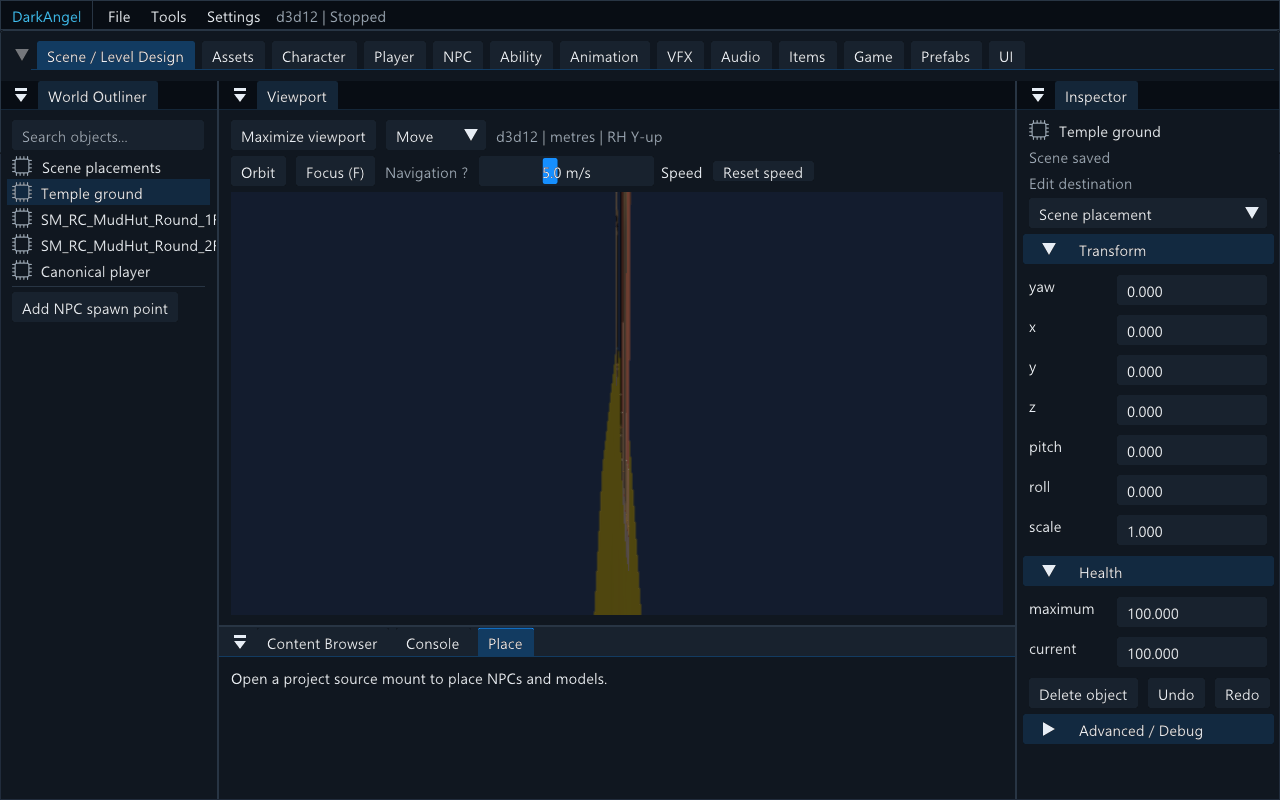
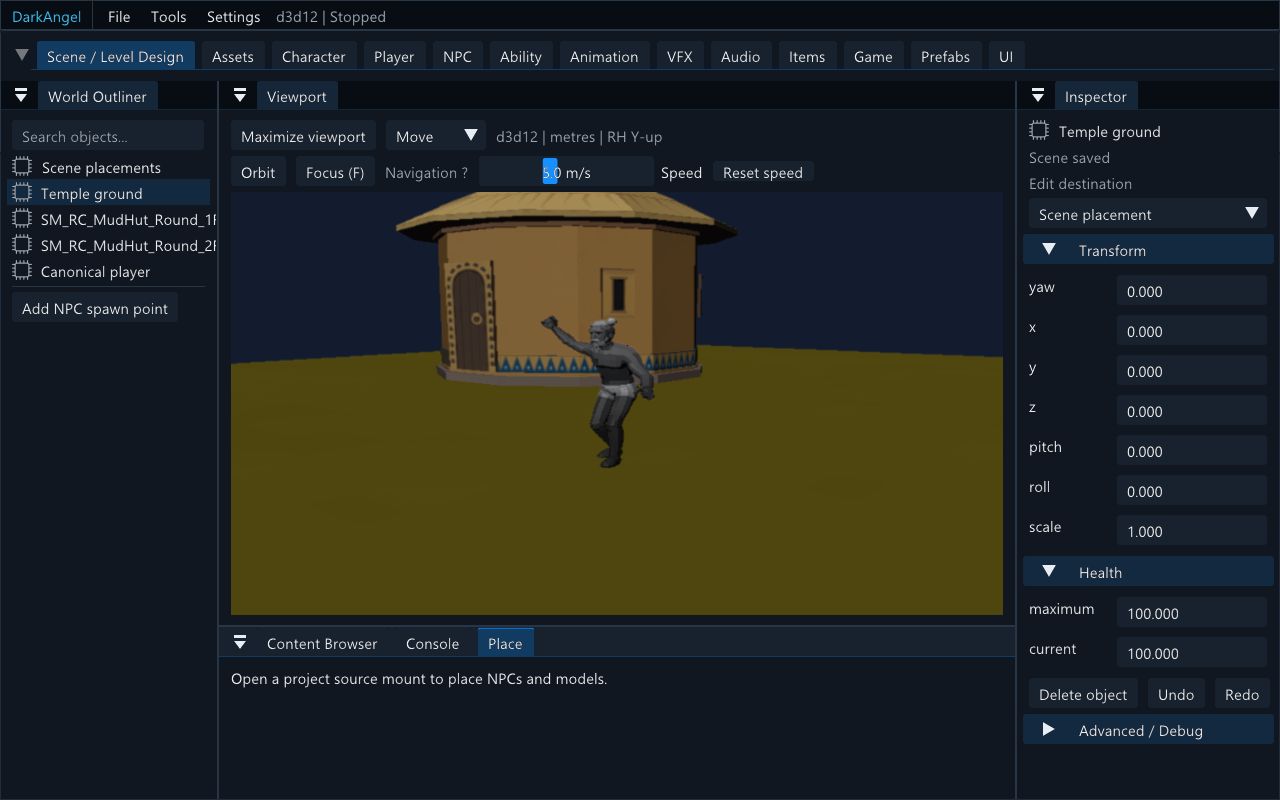
Qualify Royal renderer camera capture

Changed region(s): [[0.1562, 0.2188, 0.7812, 0.7812]]

diff --git a/apps/editor/render/scene_viewport.cpp b/apps/editor/render/scene_viewport.cpp
@@ -247,7 +247,7 @@ void SceneViewport::render(double elapsed_seconds) {
         camera_fov = XM_PIDIV4;
     }
     auto projection = XMMatrixPerspectiveFovRH(camera_fov, viewport.Width / viewport.Height, gpu.radius * .01f, gpu.radius * 40);
-    if (shell.workspace==darkangel::editor_app::Workspace::Scene&&!editor.preview.active()) {
+    if (shell.workspace==darkangel::editor_app::Workspace::Scene&&!editor.preview.active()&&(!args.hidden||args.exercise_scene_camera)) {
         // Use the exact matrices used by this frame's UI picking/drop rays, also during viewport resize.
         view=XMLoadFloat4x4(&shell.scene_view);
         projection=XMLoadFloat4x4(&shell.scene_projection);

diff --git a/docs/implementation/CONTINUE.md b/docs/implementation/CONTINUE.md
@@ -576,3 +576,5 @@ Native character scene coordinator checkpoint: CharacterSceneSession composes th
 
 Royal native viewport movement checkpoint: scripts/open_royal_scene.ps1 now supplies nine frozen cooked clip AssetIDs to the native editor preset. Press Play, click the viewport, use WASD; Shift walks, Q/E turns and Esc releases input. UI routes keys only while the viewport owns focus and text input is inactive; Stop returns to unchanged authoring. Per-actor tick poses from CharacterSceneSession drive GPU skinning and a follow camera. Native pause/Step, model reload (controlled restart after successful validation), failed candidates, source transactions/undo/redo/save/open and the original no-character editor path are retained.120 scripted fixed ticks pass on D3D12/Vulkan: foot=(0,0.500002,12.625), graph phase0.610974, pending0. Rest/deformed GPU-versus-CPU comparisons remain exact. Reproduce python scripts/verify_character_editor.py and python scripts/verify_royal_renderer.py. The initial preview derives rotated solid box proxies from cooked model bounds/current native document transforms; hut doors are blocked. This is not precise hut mesh collision acceptance. The real attack is still a pose diagnostic; Action Composer/ability costs/cooldowns/effects/tags/damage/prediction/late-join and runtime health UI remain required. Standing gait only; posture/jump animation, precise scene collision, graph asset authoring/markers/transitions/additive/action slots and broader M4 clock/fault/streaming gates remain open. Existing independent GNS receipts unchanged; native suite46/46 at dd6a0a0, plus these scoped GUI checks. M4/M5 In progress, M3 live EOS blocked, M6 not started.
 R7 continuation checkpoint (16 October 2026, Codex): the first implementation increment is compiled and focused-verified. Read `current/R7_IMPLEMENTATION_OUTLINE.md` and `current/R7_IMPLEMENTATION_REPORT.md`. Built: game-agnostic rendering core with deterministic CPU cluster reference, per-primary-view screen/depth cluster selection and retained occupancy/overflow stats, schema-1 authored light/settings components, Place/Inspector/Lighting UI, toon Standard/Character/Terrain material contracts and editor controls, RGBA16_FLOAT viewport accumulation, registered exposure/tone/bloom/FXAA display pass, saved procedural sky recipe rendering, scene sky color and distance fog, bounded configurable main-light cascades (count/resolution/distance/bias/split distribution), spotlight cone/falloff shading in the shared local-light payload, and the initial pre-FXAA depth/normal/group-ID outline pass with distance fading and persisted controls. Verified: `R7RenderingTests`, `MaterialTests`, CTest `R7.rendering_core` and `R5.materials`, guarded `DarkAngelEditor`, and `scripts/verify_scene_navigation.py --gate place` on D3D12/DXC. Partial only: Royal D3D12/Vulkan execution and GPU/reference parity passed, but the final visible attack-delta assertion failed because the retained camera capture had no qualifying pose change. Next in order: diagnose that visual fixture, qualify/finalize texel-stable cascades and caster alpha policy; then GPU clustered buffers and stats; then cubemap/equirectangular sky assets, the repeatable validation scene and full save/reload/cook/run plus Vulkan qualification. Transparent outline behavior, sky visual qualification and final visual qualification remain open. Do not stage generated `r1-*`/`r2-*` evidence; do not push.
+R7 continuation checkpoint (16 October 2026, Codex): the first implementation increment is compiled and focused-verified. Read `current/R7_IMPLEMENTATION_OUTLINE.md` and `current/R7_IMPLEMENTATION_REPORT.md`. Built: game-agnostic rendering core with deterministic CPU cluster reference, per-primary-view screen/depth cluster selection and retained occupancy/overflow stats, schema-1 authored light/settings components, Place/Inspector/Lighting UI, toon Standard/Character/Terrain material contracts and editor controls, RGBA16_FLOAT viewport accumulation, registered exposure/tone/bloom/FXAA display pass, saved procedural sky recipe rendering, scene sky color and distance fog, bounded configurable main-light cascades, spotlight cone/falloff shading, and the initial pre-FXAA depth/normal/group-ID outline pass with distance fading and persisted controls. Verified: `R7RenderingTests`, `MaterialTests`, focused CTest, guarded `DarkAngelEditor`, D3D12 placement, and `scripts/verify_royal_renderer.py` on D3D12/Vulkan with visible rest/attack captures and exact GPU/reference parity. The hidden renderer now preserves `--camera-close`; R1 scene-camera exercises retain their authored matrices. Next: qualify texel-stable cascades and caster alpha policy; add GPU clustered buffers/stats; add cubemap/equirectangular sky assets; create the repeatable validation scene and full save/reload/cook/run plus Vulkan visual qualification. Do not stage generated `r1-*`/`r2-*` evidence; do not push.
+

diff --git a/docs/implementation/STATUS.md b/docs/implementation/STATUS.md
@@ -419,3 +419,5 @@ Reproduce M0 acquisition with [bootstrap instructions](current/BOOTSTRAP.md), na
 Current R7 implementation checkpoint (16 October 2026, Codex): R7 foundation work is in progress. The existing Diligent scene viewport now has stable-ID authored directional/point/spot lights, Place/Inspector/Tools > Lighting integration, deterministic CPU clustered-light preparation, shared toon constants, cooked Standard/Character/Terrain material families, RGBA16_FLOAT scene accumulation, a separate tone-map/bloom/FXAA display stage, sky color and distance fog, and a baseline four-cascade main directional shadow path with 3x3 PCF. `R7RenderingTests`, `MaterialTests`, CTest `R7.rendering_core`, the guarded editor build and the D3D12 Place/render gate pass. Shadow stability/authoring qualification, GPU cluster buffers, outlines, imported/procedural sky assets, Vulkan and complete validation-scene visual qualification remain open. See [R7 report](current/R7_IMPLEMENTATION_REPORT.md) and [R7 outline](current/R7_IMPLEMENTATION_OUTLINE.md). Do not claim the expanded R7 acceptance criteria complete yet; preserve the untracked r1/r2 evidence boundary.
 R7 continuation checkpoint (16 October 2026, Codex): the first implementation increment is compiled and focused-verified. Read `current/R7_IMPLEMENTATION_OUTLINE.md` and `current/R7_IMPLEMENTATION_REPORT.md`. Built: game-agnostic rendering core with deterministic CPU cluster reference, per-primary-view screen/depth cluster selection and retained occupancy/overflow stats, schema-1 authored light/settings components, Place/Inspector/Lighting UI, toon Standard/Character/Terrain material contracts and editor controls, RGBA16_FLOAT viewport accumulation, registered exposure/tone/bloom/FXAA display pass, saved procedural sky recipe rendering, scene sky color and distance fog, bounded configurable main-light cascades (count/resolution/distance/bias/split distribution), spotlight cone/falloff shading in the shared local-light payload, and the initial pre-FXAA depth/normal/group-ID outline pass with distance fading and persisted controls. Verified: `R7RenderingTests`, `MaterialTests`, CTest `R7.rendering_core` and `R5.materials`, guarded `DarkAngelEditor`, and `scripts/verify_scene_navigation.py --gate place` on D3D12/DXC. Next in order: qualify/finalize texel-stable cascades and caster alpha policy; then GPU clustered buffers and stats; then cubemap/equirectangular sky assets, the repeatable validation scene and full save/reload/cook/run plus Vulkan qualification. The existing D3D12 capture is execution evidence only, not final visual qualification. Transparent outline behavior, sky visual qualification and final visual qualification remain open. Do not stage generated `r1-*`/`r2-*` evidence; do not push.
 R7 continuation checkpoint (16 October 2026, Codex): committed R7 foundation, cascaded shadows, deterministic clustered selection, procedural sky, spotlight cone shading and depth/normal/group-ID outlines. Focused R7/material tests, guarded editor build and D3D12 placement pass. Royal D3D12/Vulkan execution and GPU/reference parity were partial: the final visible attack-delta assertion failed because the retained camera capture had no qualifying pose change. Read `current/R7_IMPLEMENTATION_REPORT.md` and `CONTINUE.md`; do not stage generated r1/r2 evidence or push.
+Current R7 checkpoint (16 October 2026, Codex): R7 rendering foundation is implemented and locally committed through the shared toon core, authored Directional/Point/Spot lights, Place/Inspector/Lighting tools, Standard/Character/Terrain material contracts, HDR exposure/tone/bloom/FXAA, persisted procedural sky/fog, configurable main-light cascades, spotlight cone/falloff, and pre-FXAA depth/normal/group-ID outlines. Focused rendering/material tests, the guarded editor build, D3D12 placement, and the Royal D3D12/Vulkan renderer gate now pass; the hidden renderer camera boundary was fixed so the visible attack-pose qualification is meaningful. R7 remains In progress: GPU compute cluster buffers, stable texel-snapped cascade qualification, HDR sky asset import, the repeatable validation scene, full save/reload/cook/run parity, and broader visual qualification remain open. No push; never stage generated r1/r2 evidence.
+

diff --git a/docs/implementation/current/R7_IMPLEMENTATION_REPORT.md b/docs/implementation/current/R7_IMPLEMENTATION_REPORT.md
@@ -32,7 +32,7 @@ The first runtime rendering core is game-agnostic (`engine/runtime/rendering.*`)
 - CTest `R7.rendering_core`: passed.
 - `DarkAngelEditor` guarded target build: passed with the pinned MSVC/CMake environment and `VCPKG_MANIFEST_INSTALL=OFF`.
 - `scripts/verify_scene_navigation.py --gate place`: passed on D3D12 after the HDR/post/fog shader changes. The gate exercised DXC and the post-process pipeline and wrote a foreground capture.
-- `scripts/verify_royal_renderer.py`: partial only. Royal document load, D3D12/Vulkan process execution, and GPU/reference image parity all passed for the generated rest/attack captures; the final visible-attack-delta assertion failed because the captured camera contained no qualifying pose change. The retained `royal-*.log/png` files are evidence, not a cross-backend acceptance pass.
+- `scripts/verify_royal_renderer.py`: passed after correcting the hidden-renderer camera boundary. Royal document load, D3D12/Vulkan process execution, visible rest/attack captures, GPU/reference image parity, and the editor regression all passed. The deterministic `--camera-close` view is now preserved for hidden renderer runs while the R1 scene-navigation exercise still uses its authored matrices.
 
 ## Not yet implemented or not visually qualified
 
@@ -40,7 +40,7 @@ The first runtime rendering core is game-agnostic (`engine/runtime/rendering.*`)
 - GPU compute clustered assignment and per-view GPU occupancy/overflow buffers; the current CPU assignment is a correctness reference and the primary-view integration step, not the final GPU path.
 - Independent visual qualification of the object/group-ID plus depth/normal screen-space outlines and distance fading; the functional pass and persisted controls are present, but the current placement fixture does not contain the authored R7 validation scene.
 - Cubemap/equirectangular HDR sky import, procedural recipe asset publication, simple-cloud generation and editor visual qualification. The scene-profile procedural recipe is functional; its sun synchronization policy is explicit and intentionally does not override the selected Main Light.
-- Full validation scene, material hot-reload qualification, save/reload/cook/run parity, a qualifying visible Royal pose delta, GPU captures/timings, and Royal Temple visual qualification.
+- Full validation scene, material hot-reload qualification, save/reload/cook/run parity, GPU captures/timings, and Royal Temple visual qualification.
 - Advanced AO is not enabled; baked GI, lightmaps and the explicitly deferred systems remain out of scope.
 
 The D3D12 capture is evidence that the modified pipeline executes; it is not evidence that the final R7 visuals or all material families are artistically qualified.
